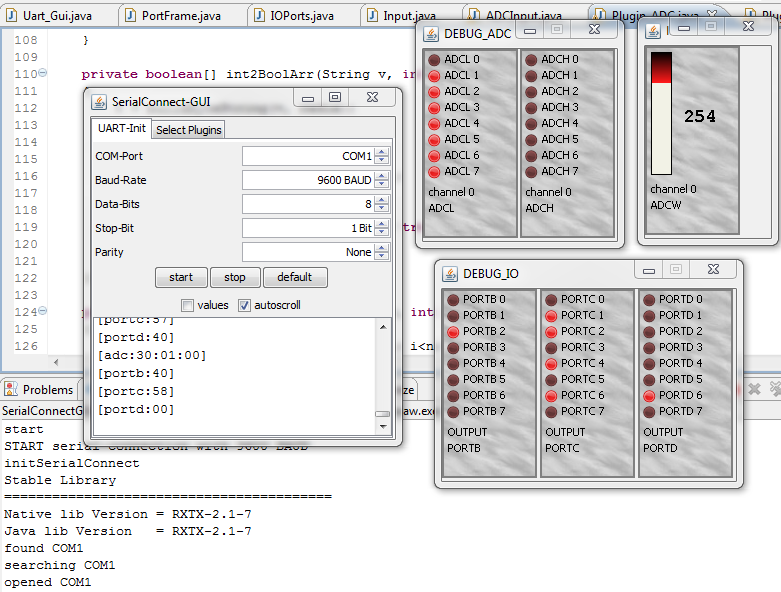
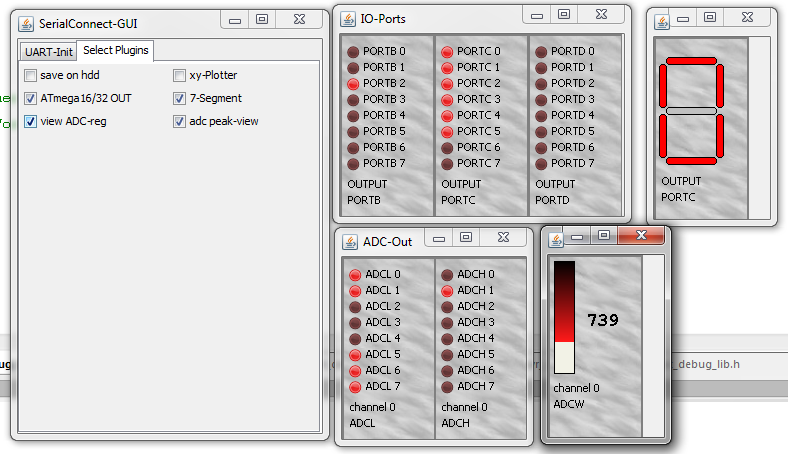
- added LED-segment

diff --git a/src/de/openedu/serialconnect/plugins/Segment.java b/src/de/openedu/serialconnect/plugins/Segment.java
@@ -10,14 +10,14 @@ import java.awt.Image;
 import javax.swing.ImageIcon;
 import javax.swing.JComponent;
 
-public class Output extends JComponent implements IOInterface
+public class Segment extends JComponent implements IOInterface
 {
 	private final int SPACER_LEFT = 3;
 	private final int SPACER_TOP = SPACER_LEFT;
 	
 	private IOPorts ports = null;
-//	private Image led_on = (new ImageIcon(getClass().getResource("/de/openedu/serialconnect/plugins/images/led-on.png"))).getImage();
-//	private Image led_off = (new ImageIcon(getClass().getResource("/de/openedu/serialconnect/plugins/images/led-off.png"))).getImage();
+	private Image led_on = (new ImageIcon(getClass().getResource("/de/openedu/serialconnect/plugins/images/led-on.png"))).getImage();
+	private Image led_off = (new ImageIcon(getClass().getResource("/de/openedu/serialconnect/plugins/images/led-off.png"))).getImage();
 	private Image background = (new ImageIcon(getClass().getResource("/de/openedu/serialconnect/plugins/images/blow-gray.png"))).getImage();
 	private String[] portNames = new String[] {"A", "B", "C", "D" };
 	
@@ -25,38 +25,33 @@ public class Output extends JComponent implements IOInterface
 	private String idAsSting = null;
 	private String portName = "";
 	
-	private boolean viewMode = false;
+	public Segment(int ioId, String portName, IOPorts ports)
+	{
+		this.id = ioId;
+		this.portName = portName;
+		this.ports = ports;
+		
+		init();
+	}
 	
-	private OutRenderer outRenderer = new OutRenderer();
-	
-//	public Output(int ioId, String portName, IOPorts ports)
-//	{
-//		this.id = ioId;
-//		this.portName = portName;
-//		this.ports = ports;
-//		
-//		init();
-//	}
-	
-	public Output(String ioIdAsString, boolean viewMode, String portName, IOPorts ports)
+	public Segment(String ioIdAsString, String portName, IOPorts ports)
 	{
 		this.idAsSting = ioIdAsString;
-		this.viewMode= viewMode; 
 		this.portName = portName;
 		this.ports = ports;
 		
 		init();
 	}
 
-//	public Output(int ioId, String portName, int bitRange)
-//	{
-//		this.portName = portName;
-//		this.ports = new IOPorts(idAsSting, new boolean[bitRange]);
-//		
-//		init();
-//	}
+	public Segment(int ioId, String portName, int bitRange)
+	{
+		this.portName = portName;
+		this.ports = new IOPorts(idAsSting, new boolean[bitRange]);
+		
+		init();
+	}
 	
-	public Output(int ioId, String portName, boolean[] preset)
+	public Segment(int ioId, String portName, boolean[] preset)
 	{
 		this.id = ioId;
 		this.portName = portName;
@@ -67,8 +62,7 @@ public class Output extends JComponent implements IOInterface
 	
 	private void init()
 	{
-		setPreferredSize(new Dimension((int)(3.5*16), (int)(1.8*background.getHeight(null))));
-//		setPreferredSize(new Dimension((int)(3.5*led_on.getWidth(null)), (int)(1.8*background.getHeight(null))));
+		setPreferredSize(new Dimension((int)(3.5*led_on.getWidth(null)), (int)(1.8*background.getHeight(null))));
 	}
 
 	@Override
@@ -106,7 +100,7 @@ public class Output extends JComponent implements IOInterface
 	public void paint(Graphics g)
 	{
 		super.paintComponent(g);
-//		System.out.println(viewMode);
+//		System.out.println("paintThePort");
 		Graphics2D g2d = (Graphics2D)g;
 		
 		int fontHeight = getFont().getSize();
@@ -116,10 +110,29 @@ public class Output extends JComponent implements IOInterface
 		g2d.drawImage(background, 0, 0, null);
 		g2d.drawImage(background, 0, background.getHeight(null), null);
 		
-		if(viewMode == Plugin_IO.PIN_MODE)
-			outRenderer.drawOutPort(g2d,bool, idAsSting, portName, fontHeight);
+		int i;
+		for(i=0; i < bool.length; i++)
+		{
+//			System.out.println(bool[i]);
+			
+			g2d.drawRoundRect(SPACER_LEFT, SPACER_TOP, 20, 5, 5, 5);
+//			if(bool[i])
+//				g2d.drawImage(led_on, SPACER_LEFT, SPACER_TOP + i*led_on.getHeight(null), null);
+//			else
+//				g2d.drawImage(led_off, SPACER_LEFT, SPACER_TOP + i*led_off.getHeight(null), null);
+//			
+//			if(id == -1)
+//				g2d.drawString(" "+idAsSting.toUpperCase()+" "+i, SPACER_LEFT + led_on.getWidth(null), SPACER_TOP + (int)(i*led_on.getHeight(null) + fontHeight));
+//			else
+//				g2d.drawString(" P"+portNames[id]+" "+i, SPACER_LEFT + led_on.getWidth(null), SPACER_TOP + (int)(i*led_on.getHeight(null) + fontHeight));
+		}
+		
+		g2d.drawString(" "+portName, SPACER_LEFT, SPACER_TOP + (++i)*led_on.getHeight(null));
+		
+		if(id == -1)
+			g2d.drawString(" "+idAsSting.toUpperCase(), SPACER_LEFT, SPACER_TOP + (++i)*led_on.getHeight(null));
 		else
-			outRenderer.drawSegment(g2d, bool, idAsSting, portName, fontHeight);
+			g2d.drawString(" PORT"+portNames[id], SPACER_LEFT, SPACER_TOP + (++i)*led_on.getHeight(null));
 		
 		g2d.setColor(Color.GRAY);
 		g2d.setStroke(new BasicStroke(2.0f));

diff --git a/src/de/openedu/serialconnect/plugins/OutRenderer.java b/src/de/openedu/serialconnect/plugins/OutRenderer.java
@@ -1,0 +1,87 @@
+package de.openedu.serialconnect.plugins;
+
+import java.awt.Color;
+import java.awt.Graphics2D;
+import java.awt.Image;
+
+import javax.swing.ImageIcon;
+
+public class OutRenderer {
+	
+	private final int SPACER_LEFT = 5;
+	private final int SPACER_TOP_OUTPUT = 10;
+	private final int SPACER_TOP_SEGMENT = 20;
+
+	private Image led_on = (new ImageIcon(getClass().getResource("/de/openedu/serialconnect/plugins/images/led-on.png"))).getImage();
+	private Image led_off = (new ImageIcon(getClass().getResource("/de/openedu/serialconnect/plugins/images/led-off.png"))).getImage();
+//	private Image background = (new ImageIcon(getClass().getResource("/de/openedu/serialconnect/plugins/images/blow-gray.png"))).getImage();
+
+	public void drawOutPort(Graphics2D g2d, boolean[] bool, String idAsSting, String portName, int fontHeight)
+	{
+		int i;
+		for(i=0; i < bool.length; i++)
+		{
+//			System.out.println(bool[i]);
+			
+			if(bool[i])
+				g2d.drawImage(led_on, SPACER_LEFT, SPACER_TOP_OUTPUT + i*led_on.getHeight(null), null);
+			else
+				g2d.drawImage(led_off, SPACER_LEFT, SPACER_TOP_OUTPUT + i*led_off.getHeight(null), null);
+			
+			g2d.drawString(" "+idAsSting.toUpperCase()+" "+i, SPACER_LEFT + led_on.getWidth(null), SPACER_TOP_OUTPUT + (int)(i*led_on.getHeight(null) + fontHeight));
+		}
+		
+		g2d.drawString(" "+portName, SPACER_LEFT, SPACER_TOP_OUTPUT + (++i)*led_on.getHeight(null));
+		
+		g2d.drawString(" "+idAsSting.toUpperCase(), SPACER_LEFT, SPACER_TOP_OUTPUT + (++i)*led_on.getHeight(null));
+	}
+
+	public void drawSegment(Graphics2D g2d, boolean[] bool, String idAsSting, String portName, int fontHeight)
+	{
+		int width = 50;
+		int height = 7;
+		int radix = 7;
+		int i = bool.length-1;
+				
+		Color color = null;
+		
+		g2d.setColor(bool[0] ? Color.RED : Color.LIGHT_GRAY);
+		g2d.fillRoundRect(SPACER_LEFT + radix, SPACER_TOP_SEGMENT, width, height, radix, radix);	// A
+		g2d.setColor(Color.BLACK);
+		g2d.drawRoundRect(SPACER_LEFT + radix, SPACER_TOP_SEGMENT, width, height, radix, radix);	// A
+		
+		g2d.setColor(bool[1] ? Color.RED : Color.LIGHT_GRAY);
+		g2d.fillRoundRect(SPACER_LEFT + width + radix, SPACER_TOP_SEGMENT + radix, height, width - radix, radix, radix);	// B
+		g2d.setColor(Color.BLACK);
+		g2d.drawRoundRect(SPACER_LEFT + width + radix, SPACER_TOP_SEGMENT + radix, height, width - radix, radix, radix);	// B
+
+		g2d.setColor(bool[2] ? Color.RED : Color.LIGHT_GRAY);
+		g2d.fillRoundRect(SPACER_LEFT + width + radix, SPACER_TOP_SEGMENT + radix + width, height, width - radix, radix, radix);	// C
+		g2d.setColor(Color.BLACK);
+		g2d.drawRoundRect(SPACER_LEFT + width + radix, SPACER_TOP_SEGMENT + radix + width, height, width - radix, radix, radix);	// C
+
+		g2d.setColor(bool[3] ? Color.RED : Color.LIGHT_GRAY);
+		g2d.fillRoundRect(SPACER_LEFT + radix, SPACER_TOP_SEGMENT + width + width, width, height, radix, radix);	// D
+		g2d.setColor(Color.BLACK);
+		g2d.drawRoundRect(SPACER_LEFT + radix, SPACER_TOP_SEGMENT + width + width, width, height, radix, radix);	// D
+
+		g2d.setColor(bool[4] ? Color.RED : Color.LIGHT_GRAY);
+		g2d.fillRoundRect(SPACER_LEFT, SPACER_TOP_SEGMENT + radix + width, height, width - radix, radix, radix);	// E
+		g2d.setColor(Color.BLACK);
+		g2d.drawRoundRect(SPACER_LEFT, SPACER_TOP_SEGMENT + radix + width, height, width - radix, radix, radix);	// E
+
+		g2d.setColor(bool[5] ? Color.RED : Color.LIGHT_GRAY);
+		g2d.fillRoundRect(SPACER_LEFT, SPACER_TOP_SEGMENT + radix, height, width - radix, radix, radix);	// F
+		g2d.setColor(Color.BLACK);
+		g2d.drawRoundRect(SPACER_LEFT, SPACER_TOP_SEGMENT + radix, height, width - radix, radix, radix);	// F
+
+		g2d.setColor(bool[6] ? Color.RED : Color.LIGHT_GRAY);
+		g2d.fillRoundRect(SPACER_LEFT + radix, SPACER_TOP_SEGMENT + width, width, height, radix, radix);	// G
+		g2d.setColor(Color.BLACK);
+		g2d.drawRoundRect(SPACER_LEFT + radix, SPACER_TOP_SEGMENT + width, width, height, radix, radix);	// G
+		
+		g2d.drawString(" "+portName, SPACER_LEFT, SPACER_TOP_SEGMENT + (++i)*led_on.getHeight(null));
+		
+		g2d.drawString(" "+idAsSting.toUpperCase(), SPACER_LEFT, SPACER_TOP_SEGMENT + (++i)*led_on.getHeight(null));
+	}
+}

diff --git a/src/de/openedu/serialconnect/plugins/Plugin_IO.java b/src/de/openedu/serialconnect/plugins/Plugin_IO.java
@@ -16,29 +16,35 @@ import javax.swing.JPanel;
 
 public class Plugin_IO extends JPanel implements Plugin, ActionListener, WindowListener {
 
-	private HashMap<String, IOInterface> ioPortList = new HashMap<String, IOInterface>();
-	private ArrayList<String> keys = new ArrayList<String>();
+	public static final boolean PIN_MODE = false;
+	public static final boolean SEGMENT_MODE = true;
+	
+	protected HashMap<String, IOInterface> ioPortList = new HashMap<String, IOInterface>();
+	protected ArrayList<String> keys = new ArrayList<String>();
 
-	private JCheckBox avrMode = null;
-//	private BufferedWriter fileWriter = null;
+	protected JCheckBox avrMode = null;
 	
-	private PortFrame portFrame = null;
+	protected PortFrame portFrame = null;
 	
-	public Plugin_IO()
+	protected boolean viewMode = PIN_MODE;
+	
+	public Plugin_IO(boolean viewMode, String name)	
 	{		
+		this.viewMode = viewMode;
+
 		setLayout(new BorderLayout());
 				
-		initComponents();
+		initComponents(name);
 	}
 	
-	private void initComponents()
+	protected void initComponents(String name)
 	{
-		avrMode = new JCheckBox("Debug ATmega16/32", false);
+		avrMode = new JCheckBox(name, false);
 		avrMode.addActionListener(this);
 		add(avrMode);
 	}
 
-	private void initIOView()
+	protected void initIOView()
 	{	
 //		keys.add("porta");
 		keys.add("portb");
@@ -46,9 +52,9 @@ public class Plugin_IO extends JPanel implements Plugin, ActionListener, WindowL
 		keys.add("portd");
 		
 		for(String s : keys)
-			ioPortList.put(s, new Output(s, "OUTPUT", new IOPorts()));
+			ioPortList.put(s, new Output(s, viewMode, "OUTPUT", new IOPorts()));
 		
-		portFrame = new PortFrame("DEBUG_IO", ioPortList, keys);
+		portFrame = new PortFrame("IO-Ports", ioPortList, keys);
 		portFrame.addWindowListener(this);
 		portFrame.setVisible(true);
 	}
@@ -87,8 +93,6 @@ public class Plugin_IO extends JPanel implements Plugin, ActionListener, WindowL
 		
 		for(int i=0, n=(8 - v.length()); i<n; i++)
 			v = "0" + v;
-		
-//		System.out.println(v);
 
 		char[] va = v.toCharArray();
 		int size = va.length;

diff --git a/src/de/openedu/serialconnect/plugins/Plugin_ADC.java b/src/de/openedu/serialconnect/plugins/Plugin_ADC.java
@@ -28,33 +28,31 @@ public class Plugin_ADC extends JPanel implements Plugin, ActionListener, Window
 	
 	private boolean viewMode = REGISTER_MODE;
 	
-	public Plugin_ADC(boolean viewMode)
+	public Plugin_ADC(boolean viewMode, String name)
 	{
 		this.viewMode = viewMode;
 		
 		setLayout(new BorderLayout());
 				
-		initComponents();
+		initComponents(name);
 	}
 	
-	private void initComponents()
+	private void initComponents(String name)
 	{
-		adcMode = new JCheckBox("Debug ADC", false);
+		adcMode = new JCheckBox(name, false);
 		adcMode.addActionListener(this);
 		add(adcMode);
 	}
 
 	private void initIOView()
 	{	
-		
-		
 		if(!viewMode)
 		{
 			keys.add("adcl");
 			keys.add("adch");
 			
 			for(String s : keys)
-				ioPortList.put(s, new Output(s, "channel 0", new IOPorts()));
+				ioPortList.put(s, new Output(s, viewMode, "channel 0", new IOPorts()));
 		}	
 		else
 		{
@@ -64,7 +62,7 @@ public class Plugin_ADC extends JPanel implements Plugin, ActionListener, Window
 				ioPortList.put(s, new ADCInput(s, "channel 0", new IOPorts(10)));
 		}
 		
-		portFrame = new PortFrame("DEBUG_ADC", ioPortList, keys);
+		portFrame = new PortFrame("ADC-Out", ioPortList, keys);
 		portFrame.addWindowListener(this);
 		portFrame.setVisible(true);
 	}

diff --git a/src/de/openedu/serialconnect/gui/Plugin_Gui.java b/src/de/openedu/serialconnect/gui/Plugin_Gui.java
@@ -19,6 +19,7 @@ import de.openedu.serialconnect.plugins.Plugin;
 import de.openedu.serialconnect.plugins.Plugin_ADC;
 import de.openedu.serialconnect.plugins.Plugin_IO;
 import de.openedu.serialconnect.plugins.Plugin_Save2Hd;
+import de.openedu.serialconnect.plugins.Plugin_Segment;
 import de.openedu.serialconnect.plugins.Plugin_XYPlotter;
 
 public class Plugin_Gui extends JPanel implements ActionListener, MessageIO, WindowListener
@@ -40,9 +41,10 @@ public class Plugin_Gui extends JPanel implements ActionListener, MessageIO, Win
 		
 		plugins.add(new Plugin_Save2Hd());
 		plugins.add(new Plugin_XYPlotter());
-		plugins.add(new Plugin_IO());
-		plugins.add(new Plugin_ADC(Plugin_ADC.REGISTER_MODE));
-		plugins.add(new Plugin_ADC(Plugin_ADC.PEAK_MODE));
+		plugins.add(new Plugin_IO(Plugin_IO.PIN_MODE, "ATmega16/32 OUT"));
+		plugins.add(new Plugin_Segment(Plugin_IO.SEGMENT_MODE, "7-Segment"));
+		plugins.add(new Plugin_ADC(Plugin_ADC.REGISTER_MODE, "view ADC-reg"));
+		plugins.add(new Plugin_ADC(Plugin_ADC.PEAK_MODE, "adc peak-view"));
 		
 		for(Plugin p : plugins)
 			panel.add((Component) p);

diff --git a/src/de/openedu/serialconnect/plugins/Plugin_Segment.java b/src/de/openedu/serialconnect/plugins/Plugin_Segment.java
@@ -1,0 +1,26 @@
+package de.openedu.serialconnect.plugins;
+
+
+public class Plugin_Segment extends Plugin_IO
+{
+
+	public Plugin_Segment(boolean viewMode, String name) {
+		super(viewMode, name);
+	}
+
+	@Override
+	protected void initIOView()
+	{	
+//		keys.add("porta");
+		keys.add("portc");
+//		keys.add("portc");
+//		keys.add("portd");
+		
+		for(String s : keys)
+			ioPortList.put(s, new Output(s, viewMode, "OUTPUT", new IOPorts()));
+		
+		portFrame = new PortFrame("Segment", ioPortList, keys);
+		portFrame.addWindowListener(this);
+		portFrame.setVisible(true);
+	}	
+}

diff --git a/src/de/openedu/serialconnect/plugins/PortFrame.java b/src/de/openedu/serialconnect/plugins/PortFrame.java
@@ -29,7 +29,7 @@ public class PortFrame extends JFrame implements ComponentListener
 	public void initFrame(ArrayList<String> keys) //SharedData sharedData)
 	{
 		setDefaultCloseOperation(JFrame.DISPOSE_ON_CLOSE);
-		setResizable(false);
+//		setResizable(false);
 		addComponentListener(this);
 		setAlwaysOnTop(true);
 		setSize(ioPortList.keySet().size()*100, 220);
